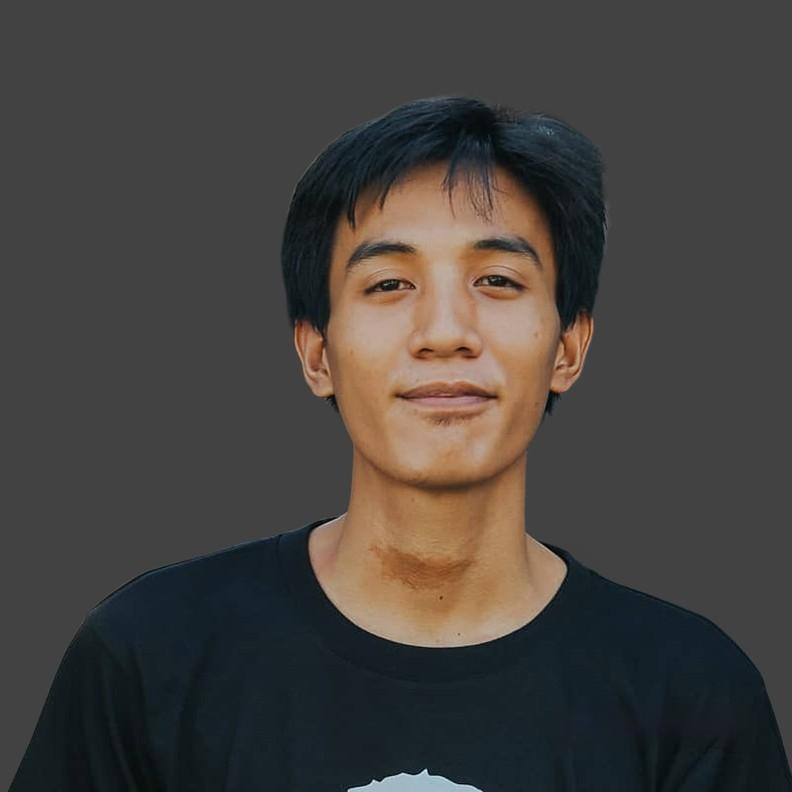
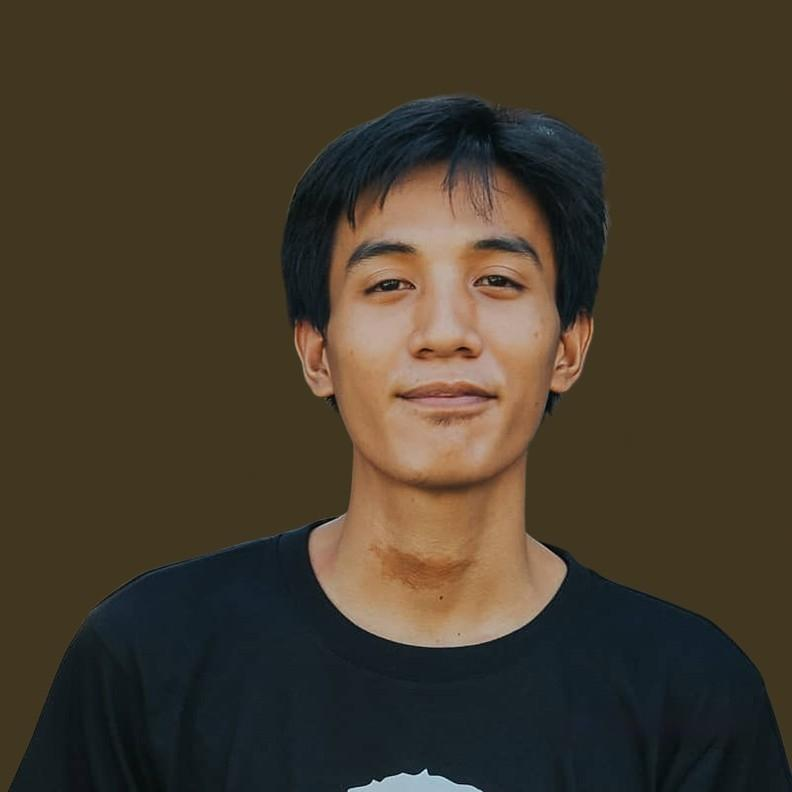
Restyle home page

diff --git a/index.html b/index.html
@@ -22,7 +22,7 @@
                         <a class="nav-link active " aria-current="page" href="#">Home</a>
                     </li>
                     <li class="nav-item">
-                        <a class="nav-link" href="#">About</a>
+                        <a class="nav-link" href="#about">About</a>
                     </li>
                     <li class="nav-item">
                         <a class="nav-link" href="#">Skills</a>
@@ -42,6 +42,9 @@
         </div>
         <img class="ali-profile" src="assets\images\Ali.jpeg" alt="Ali picture">
     </div>
+    <!-- <div id="about" class="">
+        <h1>About</h1>
+    </div> -->
     <script src="https://cdn.jsdelivr.net/npm/@popperjs/core@2.11.8/dist/umd/popper.min.js" integrity="sha384-I7E8VVD/ismYTF4hNIPjVp/Zjvgyol6VFvRkX/vR+Vc4jQkC+hVqc2pM8ODewa9r" crossorigin="anonymous"></script>
     <script src="https://cdn.jsdelivr.net/npm/bootstrap@5.3.3/dist/js/bootstrap.min.js" integrity="sha384-0pUGZvbkm6XF6gxjEnlmuGrJXVbNuzT9qBBavbLwCsOGabYfZo0T0to5eqruptLy" crossorigin="anonymous"></script>
 </body>

diff --git a/assets/css/styles.css b/assets/css/styles.css
@@ -1,21 +1,20 @@
 :root{
-    --primary-color: #424242;
-    --secondary-color: #DEF2F2;
-    --accent-color: #C76E00;
+    --primary-color: #413620;
+    --secondary-color: #9C6615;
+    --tertiary-color: #CDD1DE;
+    --accent-color: #FFD791;
 }
 body, nav div{
     background-color: var(--primary-color);
     font-weight: bold;
 }
 .navbar-brand, .nav-link{
-    color: var(--secondary-color);
+    color: var(--tertiary-color);
 }
 .active{
     color: var(--accent-color) !important;
 }
 @media screen and (min-width: 992px){
-    .navbar{
-    }
     .navbar-collapse{
         display: flex;
         justify-content: end;
@@ -79,7 +78,7 @@ body, nav div{
     }
 }
 #home div{
-    color: var(--secondary-color);
+    color: var(--tertiary-color);
 }
 #name{
     color: var(--accent-color);
@@ -92,7 +91,7 @@ body, nav div{
     font-weight: bold;
 }
 .btn-download-cv{
-    border: 1px solid var(--accent-color) !important;
+    border: 2px solid var(--accent-color) !important;
     border-radius: 0;
     color: var(--accent-color);
     font-weight: bold;

diff --git a/assets/js/script.js b/assets/js/script.js
@@ -14,12 +14,12 @@ $(document).ready(function(){
     // When download cv is hover over, the style will change
     $(".btn-download-cv").hover(
         function(){
-            $(".btn-download-cv").css("background-color", "#C76E00");
-            $(".btn-download-cv a").css("color", "#424242");
+            $(".btn-download-cv").css("background-color", "var(--accent-color)");
+            $(".btn-download-cv a").css("color", "var(--primary-color)");
         },
         function(){
-            $(".btn-download-cv").css("background-color", "#424242");
-            $(".btn-download-cv a").css("color", "#C76E00");
+            $(".btn-download-cv").css("background-color", "var(--primary-color)");
+            $(".btn-download-cv a").css("color", "var(--accent-color)");
         }
     )
 })

diff --git a/about.html b/about.html
@@ -1,0 +1,11 @@
+<!DOCTYPE html>
+<html lang="en">
+<head>
+    <meta charset="UTF-8">
+    <meta name="viewport" content="width=device-width, initial-scale=1.0">
+    <title>About</title>
+</head>
+<body>
+    
+</body>
+</html>
